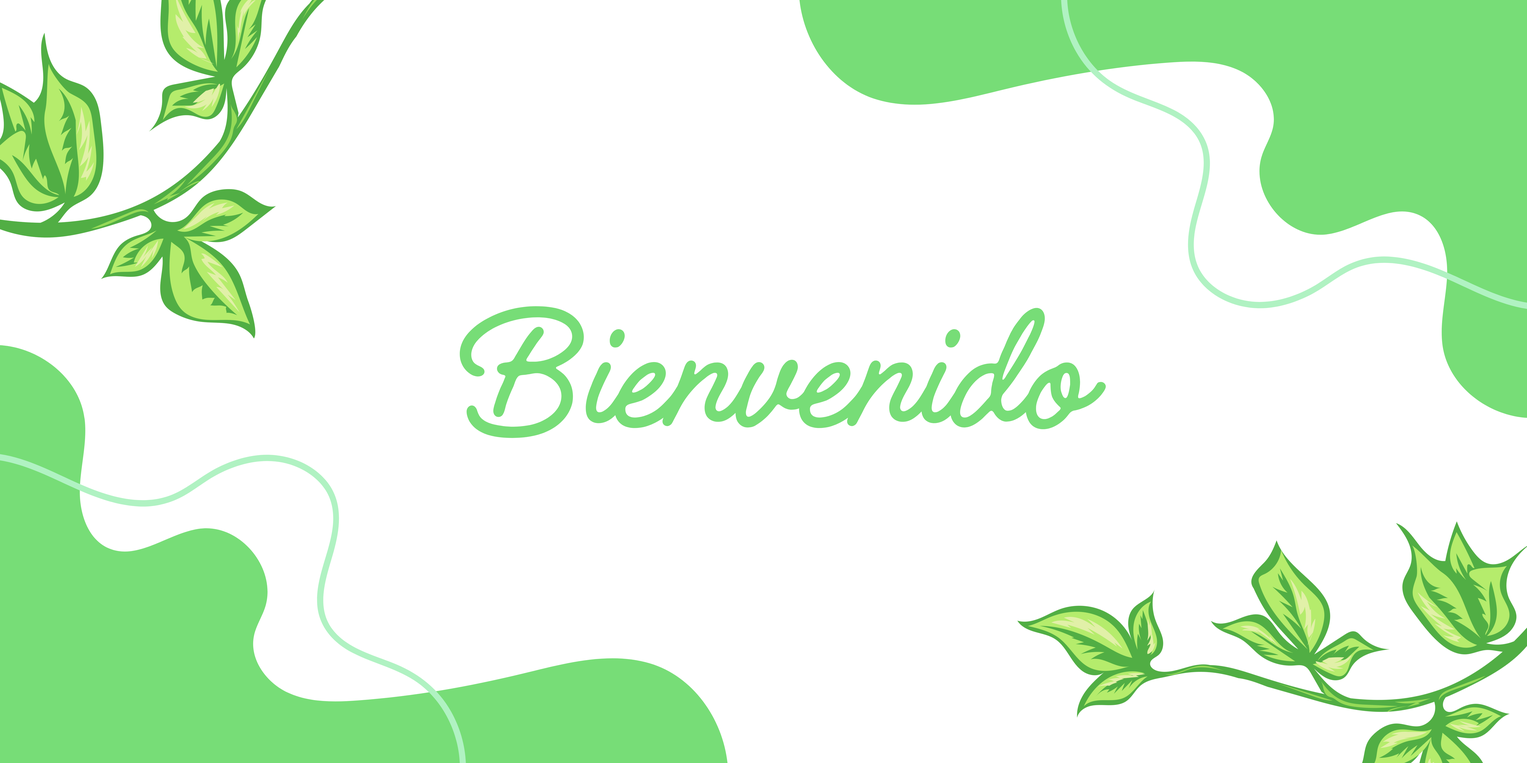
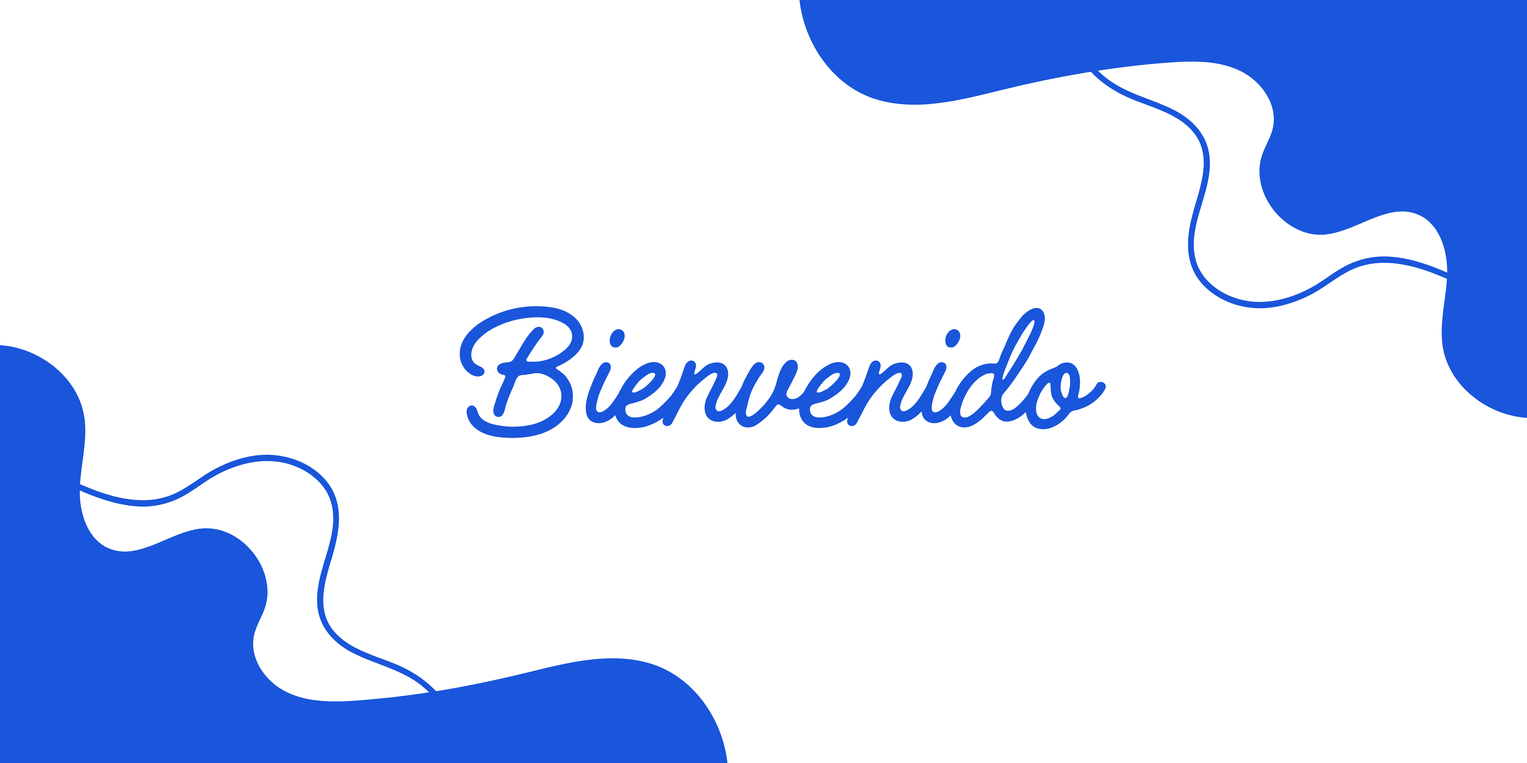
ajuste visual colores

diff --git a/resources/js/Pages/Public/Layout.vue b/resources/js/Pages/Public/Layout.vue
@@ -2,8 +2,8 @@
     <header>
         <ModalRegistro :login="login" @showModal="showModal" @hideModal="hideModal" :tenant="tenant"/>
 
-        <nav class="bg-white border-gray-200 dark:bg-gray-900 lg:relative md:fixed md:top-0 md:z-40 md:w-full">
-            <div class="flex flex-wrap justify-between items-center mx-auto max-w-screen-xl p-3">
+        <nav class="px-3 bg-white border-gray-200 dark:bg-gray-900 lg:relative md:fixed md:top-0 md:z-40 md:w-full">
+            <div class="flex flex-wrap justify-between items-center w-full p-3">
                 <Link :href="tenant.pagina" class="flex items-center space-x-3 rtl:space-x-reverse">
                     <img :src="img" class="lg:h-20 md:h-40" alt="Logo Entidad" />
                     <div class="flex flex-col">
@@ -11,62 +11,59 @@
                         <span class="lg:text-sm text-gray-900 md:text-2xl dark:text-white">{{ tenant.entidad.toUpperCase() }}</span>
                     </div>
                 </Link>
+                <div class="lg:block md:hidden px-4 py-3">
+                    <div class="flex items-center justify-center">
+                        <ul class="flex flex-row font-medium mt-0 space-x-8 rtl:space-x-reverse text-sm">
+                            <li class="px-2.5 py-2.5 border border-white rounded-lg hover:bg-blue-700 hover:text-white">
+                                <Link :href="route('public.index')" aria-current="page">Inicio</Link>
+                            </li>
+                            <li class="px-2.5 py-2.5 border border-white rounded-lg hover:bg-blue-700 hover:text-white">
+                                <button id="dropdownNavbarLink" data-dropdown-toggle="dropdownNavbar" class="flex items-center justify-between w-full py-2 px-3 rounded hover:bg-gray-100 md:hover:bg-transparent md:border-0 md:p-0 md:w-auto dark:text-white md:dark:hover:text-blue-500 dark:focus:text-white dark:border-gray-700 dark:hover:bg-gray-700 md:dark:hover:bg-transparent">Selección de impuesto <svg class="w-2.5 h-2.5 ms-2.5" aria-hidden="true" xmlns="http://www.w3.org/2000/svg" fill="none" viewBox="0 0 10 6">
+                                    <path stroke="currentColor" stroke-linecap="round" stroke-linejoin="round" stroke-width="2" d="m1 1 4 4 4-4"/>
+                                    </svg>
+                                </button>
+                                <!-- Dropdown menu -->
+                                <div id="dropdownNavbar" class="z-50 hidden font-normal bg-white divide-y divide-gray-100 rounded-lg shadow w-44 dark:bg-gray-700 dark:divide-gray-600">
+                                    <ul class="py-2 text-sm text-gray-700 dark:text-gray-400" aria-labelledby="dropdownLargeButton">
+                                        <li>
+                                            <Link :href="route('public.impuesto_predial_unificado')" class="block px-4 py-2 hover:bg-blue-700 hover:text-white dark:hover:bg-gray-600 dark:hover:text-white">Impuesto Predial Unificado</Link>
+                                        </li>
+                                        <li>
+                                            <Link v-if="login" href="#" class="text-start block px-4 py-2 hover:bg-blue-700 hover:text-white dark:hover:bg-gray-600 dark:hover:text-white">Impuesto de industria y comercio</Link>
+                                            <button v-else type="button" @click="showModal('modalRegistro')" class="text-start block px-4 py-2 hover:bg-blue-700 hover:text-white dark:hover:bg-gray-600 dark:hover:text-white">Impuesto de industria y comercio</button>
+                                        </li>
+                                        <li>
+                                            <Link v-if="login" href="#" class="text-start block px-4 py-2 hover:bg-blue-700 hover:text-white dark:hover:bg-gray-600 dark:hover:text-white">Retención de industria y comercio</Link>
+                                            <button v-else type="button" @click="showModal('modalRegistro')" class="text-start block px-4 py-2 hover:bg-blue-700 hover:text-white dark:hover:bg-gray-600 dark:hover:text-white">Retención de industria y comercio</button>
+                                        </li>
+                                    </ul>
+                                </div>
+                            </li>
+                            <li class="px-2.5 py-2.5 border border-white rounded-lg hover:bg-blue-700 hover:text-white">
+                                <Link :href="route('public.normatividad')" >Normatividad</Link>
+                            </li>
+                            <li class="px-2.5 py-2.5 border border-white rounded-lg hover:bg-blue-700 hover:text-white">
+                                <Link :href="route('public.notificaciones')" >Notificaciones jurídicas</Link>
+                            </li>
+                            <li class="px-2.5 py-2.5 border border-white rounded-lg hover:bg-blue-700 hover:text-white">
+                                <Link :href="route('public.presentacion')" >Presentación electrónica</Link>
+                            </li>
+                            <li class="px-2.5 py-2.5 border border-white rounded-lg hover:bg-blue-700 hover:text-white">
+                                <Link :href="route('public.contacto')">Contacto</Link>
+                            </li>
+                        </ul>
+                    </div>
+                </div>
                 <div class="flex items-center md:hidden lg:block">
-                    <button type="button" @click="showModal('modalRegistro')" class="py-2.5 px-5 text-sm font-medium text-white focus:outline-none bg-greenp1 rounded-lg">Iniciar sesión</button>
+                    <button type="button" @click="showModal('modalRegistro')" class="text-blue-700 hover:text-white border border-blue-700 hover:bg-blue-700 focus:ring-4 focus:outline-none focus:ring-blue-300 font-medium rounded-lg text-sm px-5 py-2.5 text-center  dark:border-blue-500 dark:text-blue-500 dark:hover:text-white dark:hover:bg-blue-500 dark:focus:ring-blue-800">Iniciar sesión</button>
                 </div>
                 <div class="flex items-center md:block lg:hidden ">
-                    <button type="button" @click="openMobileNav()" class="py-2.5 px-2.5 font-medium text-white focus:outline-none bg-greenp1 rounded-lg border border-gray-200 dark:focus:ring-gray-700 dark:bg-gray-800 dark:text-gray-400 dark:border-gray-600 dark:hover:text-white dark:hover:bg-gray-700">
+                    <button type="button" @click="openMobileNav()" class="text-blue-700 hover:text-white border border-blue-700 hover:bg-blue-800 focus:ring-4 focus:outline-none focus:ring-blue-300 font-medium rounded-lg text-sm px-2.5 py-2.5 text-center me-2 mb-2 dark:border-blue-500 dark:text-blue-500 dark:hover:text-white dark:hover:bg-blue-500 dark:focus:ring-blue-800">
                         <span class="sr-only">Open main menu</span>
                         <svg class="w-14 h-14" aria-hidden="true" xmlns="http://www.w3.org/2000/svg" fill="none" viewBox="0 0 17 14">
                             <path stroke="currentColor" stroke-linecap="round" stroke-linejoin="round" stroke-width="2" d="M1 1h15M1 7h15M1 13h15"/>
                         </svg>
                     </button>
-                </div>
-            </div>
-        </nav>
-
-        <nav class="lg:block md:hidden bg-blue-100  dark:bg-gray-700">
-            <div class="max-w-screen-xl px-4 py-3 mx-auto">
-                <div class="flex items-center justify-center">
-                    <ul class="flex flex-row font-medium mt-0 space-x-8 rtl:space-x-reverse text-sm">
-                        <li>
-                            <Link :href="route('public.index')" class="text-gray-900 dark:text-white hover:underline" aria-current="page">Inicio</Link>
-                        </li>
-                        <li>
-                            <button id="dropdownNavbarLink" data-dropdown-toggle="dropdownNavbar" class="flex items-center justify-between w-full py-2 px-3 text-gray-900 rounded hover:bg-gray-100 md:hover:bg-transparent md:border-0 md:p-0 md:w-auto dark:text-white md:dark:hover:text-blue-500 dark:focus:text-white dark:border-gray-700 dark:hover:bg-gray-700 md:dark:hover:bg-transparent">Selección de impuesto <svg class="w-2.5 h-2.5 ms-2.5" aria-hidden="true" xmlns="http://www.w3.org/2000/svg" fill="none" viewBox="0 0 10 6">
-                                <path stroke="currentColor" stroke-linecap="round" stroke-linejoin="round" stroke-width="2" d="m1 1 4 4 4-4"/>
-                                </svg>
-                            </button>
-                            <!-- Dropdown menu -->
-                            <div id="dropdownNavbar" class="z-50 hidden font-normal bg-white divide-y divide-gray-100 rounded-lg shadow w-44 dark:bg-gray-700 dark:divide-gray-600">
-                                <ul class="py-2 text-sm text-gray-700 dark:text-gray-400" aria-labelledby="dropdownLargeButton">
-                                    <li>
-                                        <Link :href="route('public.impuesto_predial_unificado')" class="block px-4 py-2 hover:bg-gray-100 dark:hover:bg-gray-600 dark:hover:text-white">Impuesto Predial Unificado</Link>
-                                    </li>
-                                    <li>
-                                        <Link v-if="login" href="#" class="block px-4 py-2 hover:bg-gray-100 dark:hover:bg-gray-600 dark:hover:text-white">Impuesto de industria y comercio</Link>
-                                        <button v-else type="button" @click="showModal('modalRegistro')" class="text-start block px-4 py-2 hover:bg-gray-100 dark:hover:bg-gray-600 dark:hover:text-white">Impuesto de industria y comercio</button>
-                                    </li>
-                                    <li>
-                                        <Link v-if="login" href="#" class="block px-4 py-2 hover:bg-gray-100 dark:hover:bg-gray-600 dark:hover:text-white">Retención de industria y comercio</Link>
-                                        <button v-else type="button" @click="showModal('modalRegistro')" class="text-start block px-4 py-2 hover:bg-gray-100 dark:hover:bg-gray-600 dark:hover:text-white">Retención de industria y comercio</button>
-                                    </li>
-                                </ul>
-                            </div>
-                        </li>
-                        <li>
-                            <Link :href="route('public.normatividad')" class="text-gray-900 dark:text-white hover:underline">Normatividad</Link>
-                        </li>
-                        <li>
-                            <Link :href="route('public.notificaciones')" class="text-gray-900 dark:text-white hover:underline">Notificaciones jurídicas</Link>
-                        </li>
-                        <li>
-                            <Link :href="route('public.presentacion')" class="text-gray-900 dark:text-white hover:underline">Presentación electrónica</Link>
-                        </li>
-                        <li>
-                            <Link :href="route('public.contacto')" class="text-gray-900 dark:text-white hover:underline">Contacto</Link>
-                        </li>
-                    </ul>
                 </div>
             </div>
         </nav>
@@ -121,12 +118,72 @@
             </div>
         </nav>
     </header>
-    <Banner/>
+    <Carousel/>
     <main class="mb-8 container mx-auto lg:m-auto md:mt-56">
         <slot :login ="login" :showModal="showModal" :hideModal="hideModal" />
     </main>
-    <footer class="bg-gray-100 dark:bg-gray-900 mt-10 lg:h-auto md:h-screen">
-        <div class="mx-auto w-full max-w-screen-xl p-4 py-6 lg:py-8 lg:flex lg:items-center justify-between lg:flex-row md:flex-col">
+    <footer class="bg-gray-100 dark:bg-gray-900 mt-10 lg:h-auto md:h-screen p-10">
+        <div class="grid grid-cols-1 lg:gap-5 md:gap-14">
+            <div>
+                <Link :href="tenant.pagina" class="text-center flex items-center flex-col md:justify-center">
+                    <img :src="img" class="lg:h-16 md:h-24 mb-3" alt="Logo Entidad" />
+                    <span class="self-center lg:text-base font-semibold md:text-2xl whitespace-nowrap dark:text-white">{{ tenant.nombre.toUpperCase() }} - META</span>
+                    <span class="lg:text-sm text-gray-900 md:text-xl dark:text-white">{{ tenant.entidad.toUpperCase() }}</span>
+                </Link>
+            </div>
+            <nav>
+                <ul class="flex justify-center items-center lg:flex-row md:flex-col lg:space-x-10 md:space-x-0 lg:space-y-0 md:space-y-6 lg:text-base md:text-3xl">
+                    <li>
+                        <Link :href="route('public.normatividad')" class="hover:underline">Inicio</Link>
+                    </li>
+                    <li>
+                        <Link :href="route('public.normatividad')" class="hover:underline">Normatividad</Link>
+                    </li>
+                    <li>
+                        <Link :href="route('public.notificaciones')" class="hover:underline">Notificaciones jurídicas</Link>
+                    </li>
+                    <li>
+                        <Link :href="route('public.presentacion')" class="hover:underline">Presentación electrónica</Link>
+                    </li>
+                    <li>
+                        <Link :href="route('public.contacto')" class="hover:underline">Contacto</Link>
+                    </li>
+                    <li> <Link :href="route('public.preguntas')" class="hover:underline">Preguntas frecuentes</Link></li>
+                </ul>
+            </nav>
+            <ListRedesSociales class="flex justify-center"/>
+        </div>
+        <hr class="my-6 border-gray-200 sm:mx-auto dark:border-gray-700 lg:my-8" />
+        <ul class="flex justify-center space-x-6 lg:text-base md:text-2xl text-gray-500 dark:text-gray-400 font-medium">
+            <li v-if="tenant.telefono">
+                <div class="flex space-x-2 items-center">
+                    <svg class="lg:w-4 lg:h-4 md:w-7 md:h-7" xmlns="http://www.w3.org/2000/svg"  viewBox="0 0 512 512"><path d="M164.9 24.6c-7.7-18.6-28-28.5-47.4-23.2l-88 24C12.1 30.2 0 46 0 64C0 311.4 200.6 512 448 512c18 0 33.8-12.1 38.6-29.5l24-88c5.3-19.4-4.6-39.7-23.2-47.4l-96-40c-16.3-6.8-35.2-2.1-46.3 11.6L304.7 368C234.3 334.7 177.3 277.7 144 207.3L193.3 167c13.7-11.2 18.4-30 11.6-46.3l-40-96z"/></svg>
+                    <span>{{ tenant.telefono }}</span>
+                </div>
+            </li>
+            <li v-if="tenant.correo">
+                <div class="flex space-x-2 items-center">
+                    <svg class="lg:w-4 lg:h-4 md:w-7 md:h-7" xmlns="http://www.w3.org/2000/svg"  viewBox="0 0 512 512"><path d="M48 64C21.5 64 0 85.5 0 112c0 15.1 7.1 29.3 19.2 38.4L236.8 313.6c11.4 8.5 27 8.5 38.4 0L492.8 150.4c12.1-9.1 19.2-23.3 19.2-38.4c0-26.5-21.5-48-48-48H48zM0 176V384c0 35.3 28.7 64 64 64H448c35.3 0 64-28.7 64-64V176L294.4 339.2c-22.8 17.1-54 17.1-76.8 0L0 176z"/></svg>
+                    <span>{{ tenant.correo }}</span>
+                </div>
+            </li>
+            <li v-if="tenant.pagina">
+                <Link :href="tenant.pagina" class="flex space-x-2 items-center">
+                    <svg class="lg:w-4 lg:h-4 md:w-7 md:h-7" xmlns="http://www.w3.org/2000/svg"   viewBox="0 0 512 512"><path d="M352 256c0 22.2-1.2 43.6-3.3 64H163.3c-2.2-20.4-3.3-41.8-3.3-64s1.2-43.6 3.3-64H348.7c2.2 20.4 3.3 41.8 3.3 64zm28.8-64H503.9c5.3 20.5 8.1 41.9 8.1 64s-2.8 43.5-8.1 64H380.8c2.1-20.6 3.2-42 3.2-64s-1.1-43.4-3.2-64zm112.6-32H376.7c-10-63.9-29.8-117.4-55.3-151.6c78.3 20.7 142 77.5 171.9 151.6zm-149.1 0H167.7c6.1-36.4 15.5-68.6 27-94.7c10.5-23.6 22.2-40.7 33.5-51.5C239.4 3.2 248.7 0 256 0s16.6 3.2 27.8 13.8c11.3 10.8 23 27.9 33.5 51.5c11.6 26 20.9 58.2 27 94.7zm-209 0H18.6C48.6 85.9 112.2 29.1 190.6 8.4C165.1 42.6 145.3 96.1 135.3 160zM8.1 192H131.2c-2.1 20.6-3.2 42-3.2 64s1.1 43.4 3.2 64H8.1C2.8 299.5 0 278.1 0 256s2.8-43.5 8.1-64zM194.7 446.6c-11.6-26-20.9-58.2-27-94.6H344.3c-6.1 36.4-15.5 68.6-27 94.6c-10.5 23.6-22.2 40.7-33.5 51.5C272.6 508.8 263.3 512 256 512s-16.6-3.2-27.8-13.8c-11.3-10.8-23-27.9-33.5-51.5zM135.3 352c10 63.9 29.8 117.4 55.3 151.6C112.2 482.9 48.6 426.1 18.6 352H135.3zm358.1 0c-30 74.1-93.6 130.9-171.9 151.6c25.5-34.2 45.2-87.7 55.3-151.6H493.4z"/></svg>
+                    <span>{{ tenant.pagina }}</span>
+                </Link>
+            </li>
+            <li v-if="tenant.direccion">
+                <div class="flex space-x-2 items-center">
+                    <svg class="lg:w-4 lg:h-4 md:w-7 md:h-7" xmlns="http://www.w3.org/2000/svg"  viewBox="0 0 384 512"><path d="M215.7 499.2C267 435 384 279.4 384 192C384 86 298 0 192 0S0 86 0 192c0 87.4 117 243 168.3 307.2c12.3 15.3 35.1 15.3 47.4 0zM192 128a64 64 0 1 1 0 128 64 64 0 1 1 0-128z"/></svg>
+                    <span>{{ tenant.direccion }}</span>
+                </div>
+            </li>
+        </ul>
+        <div class="flex justify-center">
+            <span class="text-center lg:text-sm md:text-2xl text-gray-500 sm:text-center dark:text-gray-400 ">© 2023 <a href="#" class="hover:underline lg:text-sm md:text-2xl">Ideal 10 sas</a>. Todos los derechos reservados.</span>
+        </div>
+        <!--<div class="mx-auto w-full max-w-screen-xl p-4 py-6 lg:py-8 lg:flex lg:items-center justify-between lg:flex-row md:flex-col">
             <div class="mb-6">
                 <Link :href="tenant.pagina" class="flex items-center md:justify-center">
                     <img :src="img" class="lg:h-8 me-3 md:h-24" alt="Logo Entidad" />
@@ -203,7 +260,7 @@
                     <Link :href="route('public.contacto')" class="hover:underline">Contacto</Link>
                 </li>
             </ul>
-        </div>
+        </div>-->
     </footer>
 </template>
 
@@ -212,7 +269,8 @@ import { onMounted, ref } from 'vue'
 import { Link } from '@inertiajs/vue3'
 import { initFlowbite, Modal } from 'flowbite'
 import ModalRegistro from './Components/ModalRegistro.vue'
-import Banner from './Components/Carousel.vue'
+import Carousel from './Components/Carousel.vue'
+import ListRedesSociales from './Components/ListRedesSociales.vue'
 
 onMounted(() => {
     initFlowbite()

diff --git a/resources/js/Pages/Public/Contacto.vue b/resources/js/Pages/Public/Contacto.vue
@@ -66,37 +66,16 @@
 
                     </div>
                 </div>
-                <ul class="flex space-x-5 mt-5">
-                    <li class="p-2 relative rounded-full h-10 w-10 bg-black">
-                        <a href="#" class="absolute top-1/2 right-1/2 -translate-y-1/2 translate-x-1/2 block h-full w-full" >
-                            <svg class="lg:w-5 lg:h-5 md:w-7 md:h-7 fill-white absolute top-1/2 right-1/2 -translate-y-1/2 translate-x-1/2 block h-full w-full" xmlns="http://www.w3.org/2000/svg" viewBox="0 0 320 512"><path d="M80 299.3V512H196V299.3h86.5l18-97.8H196V166.9c0-51.7 20.3-71.5 72.7-71.5c16.3 0 29.4 .4 37 1.2V7.9C291.4 4 256.4 0 236.2 0C129.3 0 80 50.5 80 159.4v42.1H14v97.8H80z"/></svg>
-                        </a>
-                    </li>
-                    <li class="p-2 relative rounded-full h-10 w-10 bg-black">
-                        <a href="#" class="absolute top-1/2 right-1/2 -translate-y-1/2 translate-x-1/2 block h-full w-full" >
-                            <svg class="lg:w-5 lg:h-5 md:w-7 md:h-7 fill-white absolute top-1/2 right-1/2 -translate-y-1/2 translate-x-1/2 block h-full w-full" xmlns="http://www.w3.org/2000/svg" viewBox="0 0 512 512"><path d="M459.4 151.7c.3 4.5 .3 9.1 .3 13.6 0 138.7-105.6 298.6-298.6 298.6-59.5 0-114.7-17.2-161.1-47.1 8.4 1 16.6 1.3 25.3 1.3 49.1 0 94.2-16.6 130.3-44.8-46.1-1-84.8-31.2-98.1-72.8 6.5 1 13 1.6 19.8 1.6 9.4 0 18.8-1.3 27.6-3.6-48.1-9.7-84.1-52-84.1-103v-1.3c14 7.8 30.2 12.7 47.4 13.3-28.3-18.8-46.8-51-46.8-87.4 0-19.5 5.2-37.4 14.3-53 51.7 63.7 129.3 105.3 216.4 109.8-1.6-7.8-2.6-15.9-2.6-24 0-57.8 46.8-104.9 104.9-104.9 30.2 0 57.5 12.7 76.7 33.1 23.7-4.5 46.5-13.3 66.6-25.3-7.8 24.4-24.4 44.8-46.1 57.8 21.1-2.3 41.6-8.1 60.4-16.2-14.3 20.8-32.2 39.3-52.6 54.3z"/></svg>
-                        </a>
-                    </li>
-                    <li class="p-2 relative rounded-full h-10 w-10 bg-black">
-                        <a href="#" class="absolute top-1/2 right-1/2 -translate-y-1/2 translate-x-1/2 block h-full w-full" >
-                            <svg class="lg:w-5 lg:h-5 md:w-7 md:h-7 fill-white absolute top-1/2 right-1/2 -translate-y-1/2 translate-x-1/2 block h-full w-full" xmlns="http://www.w3.org/2000/svg" viewBox="0 0 448 512"><path d="M224.1 141c-63.6 0-114.9 51.3-114.9 114.9s51.3 114.9 114.9 114.9S339 319.5 339 255.9 287.7 141 224.1 141zm0 189.6c-41.1 0-74.7-33.5-74.7-74.7s33.5-74.7 74.7-74.7 74.7 33.5 74.7 74.7-33.6 74.7-74.7 74.7zm146.4-194.3c0 14.9-12 26.8-26.8 26.8-14.9 0-26.8-12-26.8-26.8s12-26.8 26.8-26.8 26.8 12 26.8 26.8zm76.1 27.2c-1.7-35.9-9.9-67.7-36.2-93.9-26.2-26.2-58-34.4-93.9-36.2-37-2.1-147.9-2.1-184.9 0-35.8 1.7-67.6 9.9-93.9 36.1s-34.4 58-36.2 93.9c-2.1 37-2.1 147.9 0 184.9 1.7 35.9 9.9 67.7 36.2 93.9s58 34.4 93.9 36.2c37 2.1 147.9 2.1 184.9 0 35.9-1.7 67.7-9.9 93.9-36.2 26.2-26.2 34.4-58 36.2-93.9 2.1-37 2.1-147.8 0-184.8zM398.8 388c-7.8 19.6-22.9 34.7-42.6 42.6-29.5 11.7-99.5 9-132.1 9s-102.7 2.6-132.1-9c-19.6-7.8-34.7-22.9-42.6-42.6-11.7-29.5-9-99.5-9-132.1s-2.6-102.7 9-132.1c7.8-19.6 22.9-34.7 42.6-42.6 29.5-11.7 99.5-9 132.1-9s102.7-2.6 132.1 9c19.6 7.8 34.7 22.9 42.6 42.6 11.7 29.5 9 99.5 9 132.1s2.7 102.7-9 132.1z"/></svg>
-                        </a>
-                    </li>
-                    <li class="p-2 relative rounded-full h-10 w-10 bg-black">
-                        <a href="#" class="absolute top-1/2 right-1/2 -translate-y-1/2 translate-x-1/2 block h-full w-full" >
-                            <svg class="lg:w-5 lg:h-5 md:w-7 md:h-7 fill-white absolute top-1/2 right-1/2 -translate-y-1/2 translate-x-1/2 block h-full w-full" xmlns="http://www.w3.org/2000/svg" viewBox="0 0 576 512"><path d="M549.7 124.1c-6.3-23.7-24.8-42.3-48.3-48.6C458.8 64 288 64 288 64S117.2 64 74.6 75.5c-23.5 6.3-42 24.9-48.3 48.6-11.4 42.9-11.4 132.3-11.4 132.3s0 89.4 11.4 132.3c6.3 23.7 24.8 41.5 48.3 47.8C117.2 448 288 448 288 448s170.8 0 213.4-11.5c23.5-6.3 42-24.2 48.3-47.8 11.4-42.9 11.4-132.3 11.4-132.3s0-89.4-11.4-132.3zm-317.5 213.5V175.2l142.7 81.2-142.7 81.2z"/></svg>
-                        </a>
-                    </li>
-                </ul>
+                <ListRedesSociales class="mt-5" />
             </div>
         </div>
     </Layout>
 </template>
 
 <script lang="ts" setup>
-    import Layout from './Layout.vue'
-    import { ref,reactive } from 'vue'
-    defineProps({ tenant: Object })
+    import Layout from './Layout.vue';
+    import ListRedesSociales from './Components/ListRedesSociales.vue';
+    defineProps({ tenant: Object });
 </script>
 
 <style scoped>

diff --git a/resources/js/Pages/Public/Components/ListRedesSociales.vue b/resources/js/Pages/Public/Components/ListRedesSociales.vue
@@ -1,0 +1,32 @@
+<template>
+    <ul class="flex lg:space-x-5 md:space-x-7">
+        <li class="p-2 relative rounded-full lg:h-10 lg:w-10 md:w-14 md:h-14 bg-black">
+            <a href="#" class="absolute top-1/2 right-1/2 -translate-y-1/2 translate-x-1/2 block h-full w-full" >
+                <svg class="lg:w-5 lg:h-5 md:w-7 md:h-7 fill-white absolute top-1/2 right-1/2 -translate-y-1/2 translate-x-1/2 block h-full w-full" xmlns="http://www.w3.org/2000/svg" viewBox="0 0 320 512"><path d="M80 299.3V512H196V299.3h86.5l18-97.8H196V166.9c0-51.7 20.3-71.5 72.7-71.5c16.3 0 29.4 .4 37 1.2V7.9C291.4 4 256.4 0 236.2 0C129.3 0 80 50.5 80 159.4v42.1H14v97.8H80z"/></svg>
+            </a>
+        </li>
+        <li class="p-2 relative rounded-full lg:h-10 lg:w-10 md:w-14 md:h-14 bg-black">
+            <a href="#" class="absolute top-1/2 right-1/2 -translate-y-1/2 translate-x-1/2 block h-full w-full" >
+                <svg class="lg:w-5 lg:h-5 md:w-7 md:h-7 fill-white absolute top-1/2 right-1/2 -translate-y-1/2 translate-x-1/2 block h-full w-full" xmlns="http://www.w3.org/2000/svg" viewBox="0 0 512 512"><path d="M459.4 151.7c.3 4.5 .3 9.1 .3 13.6 0 138.7-105.6 298.6-298.6 298.6-59.5 0-114.7-17.2-161.1-47.1 8.4 1 16.6 1.3 25.3 1.3 49.1 0 94.2-16.6 130.3-44.8-46.1-1-84.8-31.2-98.1-72.8 6.5 1 13 1.6 19.8 1.6 9.4 0 18.8-1.3 27.6-3.6-48.1-9.7-84.1-52-84.1-103v-1.3c14 7.8 30.2 12.7 47.4 13.3-28.3-18.8-46.8-51-46.8-87.4 0-19.5 5.2-37.4 14.3-53 51.7 63.7 129.3 105.3 216.4 109.8-1.6-7.8-2.6-15.9-2.6-24 0-57.8 46.8-104.9 104.9-104.9 30.2 0 57.5 12.7 76.7 33.1 23.7-4.5 46.5-13.3 66.6-25.3-7.8 24.4-24.4 44.8-46.1 57.8 21.1-2.3 41.6-8.1 60.4-16.2-14.3 20.8-32.2 39.3-52.6 54.3z"/></svg>
+            </a>
+        </li>
+        <li class="p-2 relative rounded-full lg:h-10 lg:w-10 md:w-14 md:h-14 bg-black">
+            <a href="#" class="absolute top-1/2 right-1/2 -translate-y-1/2 translate-x-1/2 block h-full w-full" >
+                <svg class="lg:w-5 lg:h-5 md:w-7 md:h-7 fill-white absolute top-1/2 right-1/2 -translate-y-1/2 translate-x-1/2 block h-full w-full" xmlns="http://www.w3.org/2000/svg" viewBox="0 0 448 512"><path d="M224.1 141c-63.6 0-114.9 51.3-114.9 114.9s51.3 114.9 114.9 114.9S339 319.5 339 255.9 287.7 141 224.1 141zm0 189.6c-41.1 0-74.7-33.5-74.7-74.7s33.5-74.7 74.7-74.7 74.7 33.5 74.7 74.7-33.6 74.7-74.7 74.7zm146.4-194.3c0 14.9-12 26.8-26.8 26.8-14.9 0-26.8-12-26.8-26.8s12-26.8 26.8-26.8 26.8 12 26.8 26.8zm76.1 27.2c-1.7-35.9-9.9-67.7-36.2-93.9-26.2-26.2-58-34.4-93.9-36.2-37-2.1-147.9-2.1-184.9 0-35.8 1.7-67.6 9.9-93.9 36.1s-34.4 58-36.2 93.9c-2.1 37-2.1 147.9 0 184.9 1.7 35.9 9.9 67.7 36.2 93.9s58 34.4 93.9 36.2c37 2.1 147.9 2.1 184.9 0 35.9-1.7 67.7-9.9 93.9-36.2 26.2-26.2 34.4-58 36.2-93.9 2.1-37 2.1-147.8 0-184.8zM398.8 388c-7.8 19.6-22.9 34.7-42.6 42.6-29.5 11.7-99.5 9-132.1 9s-102.7 2.6-132.1-9c-19.6-7.8-34.7-22.9-42.6-42.6-11.7-29.5-9-99.5-9-132.1s-2.6-102.7 9-132.1c7.8-19.6 22.9-34.7 42.6-42.6 29.5-11.7 99.5-9 132.1-9s102.7-2.6 132.1 9c19.6 7.8 34.7 22.9 42.6 42.6 11.7 29.5 9 99.5 9 132.1s2.7 102.7-9 132.1z"/></svg>
+            </a>
+        </li>
+        <li class="p-2 relative rounded-full lg:h-10 lg:w-10 md:w-14 md:h-14 bg-black">
+            <a href="#" class="absolute top-1/2 right-1/2 -translate-y-1/2 translate-x-1/2 block h-full w-full" >
+                <svg class="lg:w-5 lg:h-5 md:w-7 md:h-7 fill-white absolute top-1/2 right-1/2 -translate-y-1/2 translate-x-1/2 block h-full w-full" xmlns="http://www.w3.org/2000/svg" viewBox="0 0 576 512"><path d="M549.7 124.1c-6.3-23.7-24.8-42.3-48.3-48.6C458.8 64 288 64 288 64S117.2 64 74.6 75.5c-23.5 6.3-42 24.9-48.3 48.6-11.4 42.9-11.4 132.3-11.4 132.3s0 89.4 11.4 132.3c6.3 23.7 24.8 41.5 48.3 47.8C117.2 448 288 448 288 448s170.8 0 213.4-11.5c23.5-6.3 42-24.2 48.3-47.8 11.4-42.9 11.4-132.3 11.4-132.3s0-89.4-11.4-132.3zm-317.5 213.5V175.2l142.7 81.2-142.7 81.2z"/></svg>
+            </a>
+        </li>
+    </ul>
+</template>
+
+<script lang="ts" setup>
+
+</script>
+
+<style scoped>
+
+</style>

diff --git a/resources/js/Pages/Public/Components/Carousel.vue b/resources/js/Pages/Public/Components/Carousel.vue
@@ -1,7 +1,7 @@
 <template>
     <div id="controls-carousel" class="relative w-full lg:block md:hidden" data-carousel="static">
             <!-- Carousel wrapper -->
-            <div class="relative h-1/2 overflow-hidden rounded-lg">
+            <div class="relative h-[50vh] overflow-hidden">
                 <!-- Item 1 -->
                 <div class="hidden duration-700 ease-in-out" data-carousel-item>
                     <img :src="banner" class="absolute block w-full -translate-x-1/2 -translate-y-1/2 top-1/2 left-1/2" alt="...">
@@ -33,6 +33,7 @@
 
 <script lang="ts" setup>
     import banner from '~/img/public/banner.png'
+    import banner1 from '~/img/public/banner1.jpg'
 </script>
 
 <style scoped>
